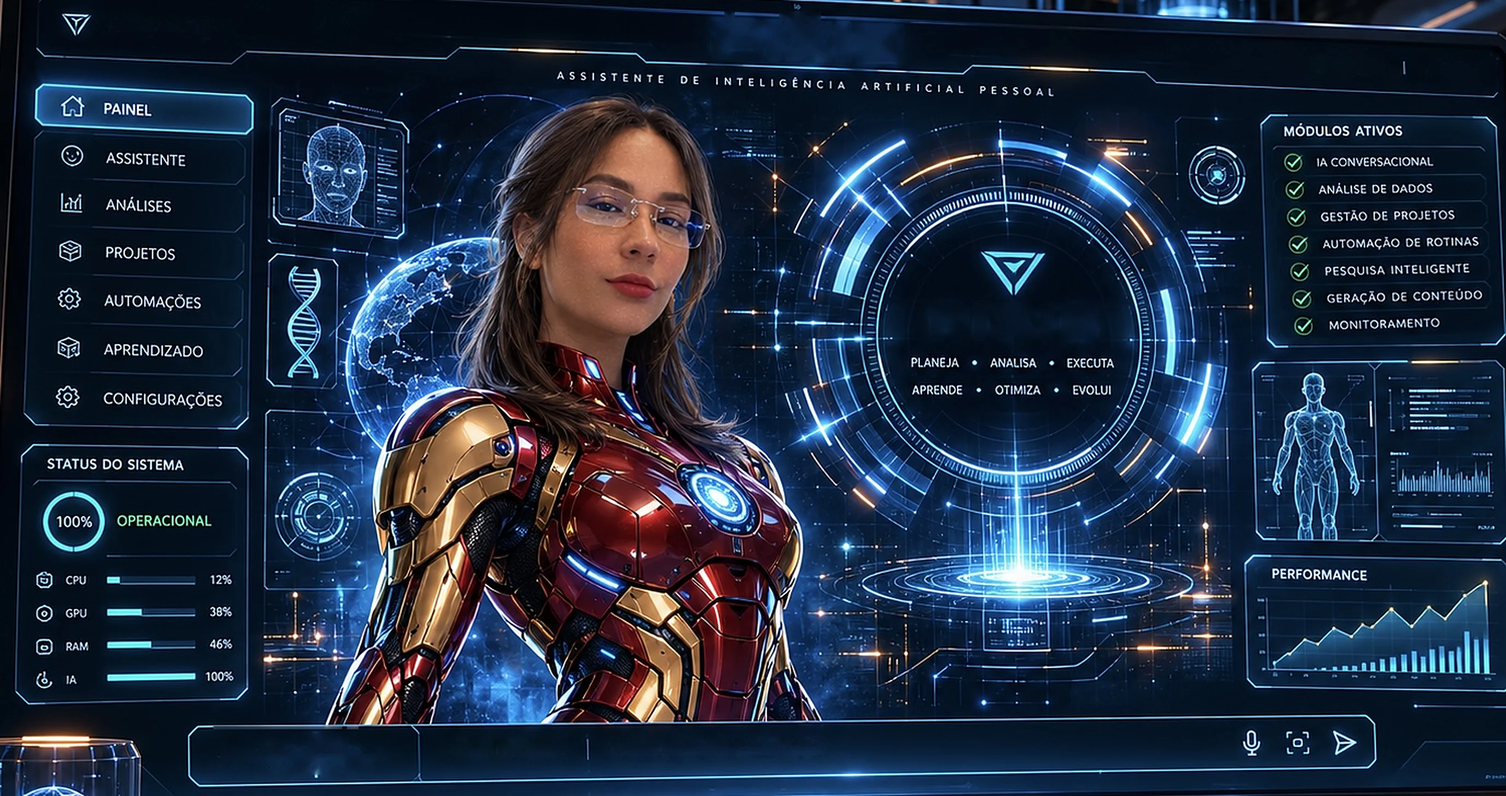
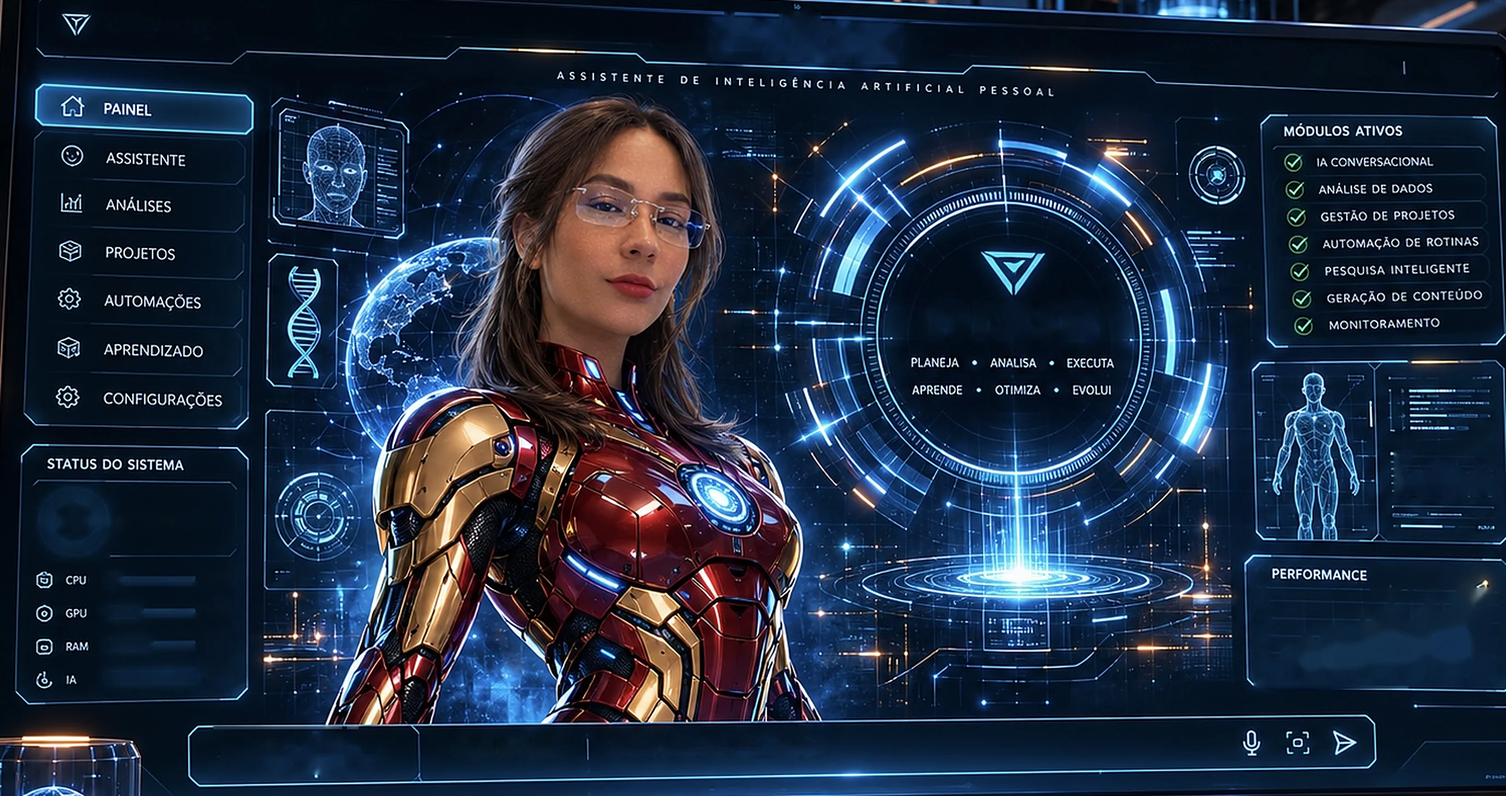
Evora Web: painel inteiro animado (scanners, globo, radares, reator, módulos, medidores e gráficos ao vivo, profundidade)
Claude-Session: https://claude.ai/code/session_01RtkD6pVsX9jumxM7LSjZw8

diff --git a/web/app.js b/web/app.js
@@ -461,6 +461,7 @@ async function send(text) {
 
 function showSources(data) {
   if (!data || (!data.queries?.length && !data.sources?.length)) return;
+  window.__evoraSearchHit?.();
   const div = document.createElement("div");
   div.className = "msg search";
   const q = (data.queries || []).join(" · ");
@@ -479,13 +480,13 @@ const holo = (() => {
   const ctx = c.getContext("2d");
   let w = 0, h = 0, dpr = 1, t = 0, last = performance.now();
   const reduce = window.matchMedia("(prefers-reduced-motion: reduce)").matches;
-  const api = {
-    level: 0,
-    kick(amount = 1) { api.level = Math.min(1, api.level + 0.55 * amount); },
-  };
-
   const BINS = 96;
   const spec = new Float32Array(BINS);
+  const api = {
+    level: 0,
+    spec,
+    kick(amount = 1) { api.level = Math.min(1, api.level + 0.55 * amount); },
+  };
   const freq = new Uint8Array(256);
   const parts = [];
   const MAX_PARTS = 900;
@@ -1007,4 +1008,329 @@ drawPerf();
     requestAnimationFrame(frame);
   }
   requestAnimationFrame(frame);
+})();
+
+// ── Camada viva sobre a arte do painel ────────────────────────────────────
+// Tudo aqui é desenhado por cima da imagem, nas coordenadas dela (1377×728),
+// para os painéis se mexerem como uma interface de verdade:
+// scanners, globo, radares, reator do peito, módulos acendendo, medidores e
+// gráficos com dados reais da página, poeira de luz e reflexo de vidro.
+const fx = (() => {
+  const c = $("fx");
+  if (!c) return null;
+  const ctx = c.getContext("2d");
+  const W = 1377, H = 728;
+  let s = 1, dpr = 1, t = 0, lastT = performance.now();
+  const reduce = window.matchMedia("(prefers-reduced-motion: reduce)").matches;
+
+  function resize() {
+    dpr = Math.min(window.devicePixelRatio || 1, 2);
+    const r = c.getBoundingClientRect();
+    s = r.width / W;
+    c.width = Math.round(r.width * dpr); c.height = Math.round(r.height * dpr);
+  }
+  window.addEventListener("resize", resize);
+  resize();
+
+  // ── métricas reais da página ──
+  const metrics = { cpu: 8, gpu: 10, ram: null, ia: 0 };
+  let lagExpected = performance.now() + 250;
+  setInterval(() => {
+    const now = performance.now();
+    const lag = Math.max(0, now - lagExpected);
+    lagExpected = now + 250;
+    const cpuNow = Math.min(100, 4 + lag * 1.2 + frameLoad * 40);
+    metrics.cpu += (cpuNow - metrics.cpu) * 0.35;
+    if (performance.memory && performance.memory.jsHeapSizeLimit) {
+      metrics.ram = (performance.memory.usedJSHeapSize / performance.memory.jsHeapSizeLimit) * 100;
+    }
+  }, 250);
+  let frameLoad = 0, frameAvg = 16.7;
+
+  let searchFlash = 0;
+  window.__evoraSearchHit = () => { searchFlash = 1; };
+
+  const dust = Array.from({ length: 70 }, () => ({
+    x: Math.random() * W, y: Math.random() * H,
+    vx: (Math.random() - 0.5) * 6, vy: -2 - Math.random() * 6,
+    r: 0.4 + Math.random() * 1.1, p: Math.random() * Math.PI * 2,
+  }));
+
+  const P = (x) => x * s; // pixel da arte → pixel da tela
+
+  // brilhos pré-desenhados por cor (gradiente a cada quadro é caro)
+  const sprites = {};
+  function sprite(color) {
+    if (sprites[color]) return sprites[color];
+    const sc = document.createElement("canvas");
+    sc.width = sc.height = 64;
+    const g = sc.getContext("2d");
+    const grd = g.createRadialGradient(32, 32, 0, 32, 32, 32);
+    grd.addColorStop(0, `rgba(${color},1)`);
+    grd.addColorStop(0.35, `rgba(${color},.45)`);
+    grd.addColorStop(1, `rgba(${color},0)`);
+    g.fillStyle = grd; g.fillRect(0, 0, 64, 64);
+    return (sprites[color] = sc);
+  }
+  function glowDot(x, y, r, color, a) {
+    if (a <= 0.01) return;
+    ctx.globalAlpha = Math.min(1, a);
+    ctx.drawImage(sprite(color), P(x - r), P(y - r), P(r * 2), P(r * 2));
+    ctx.globalAlpha = 1;
+  }
+  function clipRect(x, y, w, h, fn) {
+    ctx.save(); ctx.beginPath(); ctx.rect(P(x), P(y), P(w), P(h)); ctx.clip(); fn(); ctx.restore();
+  }
+  function scanLine(x, y, w, h, period, color = "120,230,255") {
+    const k = (t % period) / period;
+    const yy = y + k * h;
+    clipRect(x, y, w, h, () => {
+      const g = ctx.createLinearGradient(0, P(yy - 14), 0, P(yy + 2));
+      g.addColorStop(0, `rgba(${color},0)`);
+      g.addColorStop(0.85, `rgba(${color},.22)`);
+      g.addColorStop(1, `rgba(${color},.75)`);
+      ctx.fillStyle = g;
+      ctx.fillRect(P(x), P(yy - 14), P(w), P(16));
+    });
+  }
+  function radar(cx, cy, r, speed, color = "110,230,255") {
+    const a = t * speed;
+    ctx.save();
+    ctx.translate(P(cx), P(cy));
+    for (let k = 0; k < 24; k++) {
+      ctx.strokeStyle = `rgba(${color},${0.13 * Math.pow(1 - k / 24, 1.5)})`;
+      ctx.lineWidth = P(r) * 0.9;
+      ctx.beginPath(); ctx.arc(0, 0, P(r) * 0.5, a - k * 0.045, a - k * 0.045 + 0.05); ctx.stroke();
+    }
+    ctx.restore();
+  }
+
+  function sysScore() {
+    const voiceOk = prefs.style === "jarvis" ? sys.gemini !== false : Boolean(synth);
+    const vals = [sys.gemini, voiceOk, sys.mic, sys.rede].filter((v) => v !== null && v !== undefined);
+    if (!vals.length) return 0;
+    return Math.round((vals.filter(Boolean).length / vals.length) * 100);
+  }
+
+  const shown = { cpu: 0, gpu: 0, ram: 0, ia: 0, score: 0 };
+
+  function draw(now) {
+    const dt = Math.min(0.05, (now - lastT) / 1000 || 0.016);
+    lastT = now;
+    frameAvg += ((dt * 1000) - frameAvg) * 0.05;
+    frameLoad = Math.max(0, Math.min(1, (frameAvg - 16.7) / 16.7));
+    t += reduce ? 0 : dt;
+    const lvl = holo.level || 0;
+    const speaking = state === "speaking", thinking = state === "thinking", listening = state === "listening";
+
+    ctx.setTransform(dpr, 0, 0, dpr, 0, 0);
+    ctx.clearRect(0, 0, c.width, c.height);
+    ctx.globalCompositeOperation = "lighter";
+
+    // ── painel do rosto: varredura + pontos de leitura
+    scanLine(270, 108, 74, 104, 3.2);
+    for (let i = 0; i < 6; i++) {
+      const on = Math.sin(t * 3 + i * 1.7) > 0.6;
+      if (on) glowDot(282 + ((i * 37) % 52), 125 + ((i * 53) % 78), 3.5, "150,240,255", 0.8);
+    }
+    // ── DNA: faixa de luz subindo
+    clipRect(250, 236, 58, 114, () => {
+      const k = 1 - (t % 2.6) / 2.6;
+      const yy = 236 + k * 130 - 10;
+      const g = ctx.createLinearGradient(0, P(yy - 16), 0, P(yy + 16));
+      g.addColorStop(0, "rgba(120,230,255,0)"); g.addColorStop(0.5, "rgba(140,240,255,.35)"); g.addColorStop(1, "rgba(120,230,255,0)");
+      ctx.fillStyle = g; ctx.fillRect(P(250), P(yy - 16), P(58), P(32));
+    });
+    // ── globo: meridianos girando (só na parte que não fica atrás do cabelo)
+    ctx.save();
+    ctx.beginPath(); ctx.arc(P(383), P(298), P(71), 0, Math.PI * 2); ctx.clip();
+    ctx.beginPath(); ctx.rect(P(300), P(220), P(128), P(160)); ctx.clip();
+    ctx.translate(P(383), P(298));
+    ctx.lineWidth = Math.max(0.6, P(0.8));
+    for (let m = 0; m < 6; m++) {
+      const ph = (t * 0.35 + m / 6) % 1;
+      const rx = Math.abs(Math.cos(ph * Math.PI)) * P(70);
+      const front = Math.sin(ph * Math.PI) > 0;
+      ctx.strokeStyle = `rgba(120,220,255,${front ? 0.28 : 0.08})`;
+      ctx.beginPath(); ctx.ellipse(0, 0, Math.max(0.5, rx), P(70), 0, 0, Math.PI * 2); ctx.stroke();
+    }
+    const sweepX = ((t * 0.25) % 1) * P(150) - P(75);
+    const sg = ctx.createLinearGradient(sweepX - P(18), 0, sweepX + P(18), 0);
+    sg.addColorStop(0, "rgba(120,220,255,0)"); sg.addColorStop(0.5, "rgba(150,235,255,.18)"); sg.addColorStop(1, "rgba(120,220,255,0)");
+    ctx.fillStyle = sg; ctx.fillRect(sweepX - P(18), -P(72), P(36), P(144));
+    ctx.restore();
+
+    // ── radares pequenos
+    radar(287, 467, 34, 1.6);
+    radar(1110, 156, 21, -2.2);
+    // ── scanner do corpo (direita)
+    scanLine(1152, 338, 98, 160, 4.2);
+
+    // ── reator do peito: pulsa com a voz
+    const flick = 0.9 + 0.1 * Math.sin(t * 23) * Math.sin(t * 7);
+    const core = (0.22 + lvl * 0.9 + (listening ? 0.12 : 0)) * flick;
+    glowDot(657, 452, 30 + lvl * 26, "120,220,255", Math.min(0.85, core));
+    glowDot(657, 452, 12 + lvl * 8, "235,252,255", Math.min(0.9, core * 0.9));
+
+    // ── módulos ativos acendendo conforme o que a Evora está fazendo
+    searchFlash = Math.max(0, searchFlash - dt * 0.35);
+    const active = [
+      speaking || thinking, thinking, false, typeof loopActive === "function" && loopActive(),
+      searchFlash > 0.02, speaking, listening,
+    ];
+    const rows = [148, 172, 196, 222, 247, 272, 296];
+    rows.forEach((y, i) => {
+      const cx = 1183 + i * 1.6;
+      const on = active[i];
+      const pulse = 0.5 + 0.5 * Math.sin(t * 5 + i);
+      if (on) {
+        const g = ctx.createLinearGradient(P(1170), 0, P(1362), 0);
+        g.addColorStop(0, `rgba(80,255,160,${0.07 + pulse * 0.06})`);
+        g.addColorStop(1, "rgba(80,255,160,0)");
+        ctx.fillStyle = g; ctx.fillRect(P(1170), P(y - 10), P(192), P(20));
+        glowDot(cx, y, 13, "90,255,160", 0.3 + pulse * 0.25);
+      } else {
+        glowDot(cx, y, 9, "90,255,160", 0.08 + 0.05 * Math.sin(t * 1.3 + i * 0.9));
+      }
+    });
+
+    // ── poeira de luz pela tela toda
+    for (const d of dust) {
+      d.x += d.vx * dt; d.y += d.vy * dt; d.p += dt * 2;
+      if (d.y < -5) { d.y = H + 5; d.x = Math.random() * W; }
+      if (d.x < -5) d.x = W + 5; if (d.x > W + 5) d.x = -5;
+      const a = 0.18 + 0.22 * Math.sin(d.p);
+      if (a > 0.05) glowDot(d.x, d.y, d.r * 4, "150,225,255", a);
+    }
+
+    // ── reflexo de vidro atravessando a tela a cada ~9 s
+    const cyc = (t % 9) / 9;
+    if (cyc < 0.35) {
+      const x = -300 + (cyc / 0.35) * (W + 600);
+      ctx.save();
+      ctx.translate(P(x), 0); ctx.rotate(0.35);
+      const g = ctx.createLinearGradient(-P(60), 0, P(60), 0);
+      g.addColorStop(0, "rgba(160,230,255,0)"); g.addColorStop(0.5, "rgba(170,235,255,.045)"); g.addColorStop(1, "rgba(160,230,255,0)");
+      ctx.fillStyle = g; ctx.fillRect(-P(60), -P(200), P(120), P(H + 600));
+      ctx.restore();
+    }
+
+    // ── medidores (Status do sistema) com dados reais
+    ctx.globalCompositeOperation = "source-over";
+    const gpuNow = Math.min(100, 6 + frameLoad * 70 + lvl * 18 + (speaking ? 6 : 0));
+    metrics.gpu += (gpuNow - metrics.gpu) * 0.05;
+    const iaTarget = sys.gemini === false ? 0 : thinking ? 85 + 15 * Math.abs(Math.sin(t * 4)) : speaking ? 70 + lvl * 30 : 100;
+    metrics.ia += (iaTarget - metrics.ia) * 0.08;
+    const target = { cpu: metrics.cpu, gpu: metrics.gpu, ram: metrics.ram ?? 0, ia: metrics.ia, score: sysScore() };
+    for (const k in shown) shown[k] += (target[k] - shown[k]) * 0.08;
+
+    const bars = [["cpu", 530], ["gpu", 560], ["ram", 590], ["ia", 619]];
+    for (const [k, y] of bars) {
+      const v = Math.max(0, Math.min(100, shown[k]));
+      const x0 = 98, w = 80;
+      ctx.fillStyle = "rgba(83,224,255,.12)";
+      ctx.fillRect(P(x0), P(y - 3), P(w), P(6));
+      const g = ctx.createLinearGradient(P(x0), 0, P(x0 + w), 0);
+      g.addColorStop(0, "#2fb6e6"); g.addColorStop(1, "#8ff0ff");
+      ctx.fillStyle = g;
+      ctx.fillRect(P(x0), P(y - 3), P(w * v / 100), P(6));
+      ctx.fillStyle = "rgba(83,224,255,.18)";
+      ctx.fillRect(P(x0), P(y - 5), P(w * v / 100), P(10));
+      ctx.font = `600 ${P(14)}px Rajdhani, sans-serif`;
+      ctx.textAlign = "right"; ctx.textBaseline = "middle";
+      ctx.fillStyle = "#dff3ff";
+      const label = k === "ram" && metrics.ram === null ? "—" : `${Math.round(v)}%`;
+      ctx.fillText(label, P(214), P(y + 1));
+    }
+    // anel do status geral
+    const sc = shown.score;
+    ctx.lineCap = "round";
+    ctx.strokeStyle = "rgba(83,224,255,.14)"; ctx.lineWidth = P(5);
+    ctx.beginPath(); ctx.arc(P(67), P(476), P(25), 0, Math.PI * 2); ctx.stroke();
+    const arcEnd = -Math.PI / 2 + (Math.PI * 2 * sc) / 100;
+    ctx.strokeStyle = "rgba(83,224,255,.25)"; ctx.lineWidth = P(9);
+    ctx.beginPath(); ctx.arc(P(67), P(476), P(25), -Math.PI / 2, arcEnd); ctx.stroke();
+    ctx.strokeStyle = "#53e0ff"; ctx.lineWidth = P(5);
+    ctx.beginPath(); ctx.arc(P(67), P(476), P(25), -Math.PI / 2, arcEnd); ctx.stroke();
+    ctx.textAlign = "center"; ctx.fillStyle = "#eaf8ff";
+    ctx.font = `600 ${P(14)}px Rajdhani, sans-serif`;
+    ctx.fillText(`${Math.round(sc)}%`, P(67), P(477));
+    const st = sc >= 99.5 ? ["OPERACIONAL", "#5dff9c"] : sc >= 50 ? ["PARCIAL", "#ffa53a"] : ["ATENÇÃO", "#ff6b6b"];
+    ctx.textAlign = "left"; ctx.fillStyle = st[1];
+    ctx.font = `600 ${P(16)}px Rajdhani, sans-serif`;
+    ctx.fillText(st[0], P(107), P(477));
+
+    // ── mini espectro (painel da direita)
+    const spec = holo.spec || [];
+    for (let i = 0; i < 22; i++) {
+      const v = (spec[(i * 4) % (spec.length || 1)] || 0) * 0.9 + 0.08 + 0.06 * Math.abs(Math.sin(t * 2 + i));
+      const bh = Math.min(1, v) * 32;
+      ctx.fillStyle = `rgba(120,225,255,${0.5 + Math.min(0.5, v)})`;
+      ctx.fillRect(P(1279 + i * 4), P(450 - bh), P(2.4), P(bh));
+    }
+
+    // ── gráfico de performance: tempo real das respostas
+    drawPerfChart();
+    requestAnimationFrame(draw);
+  }
+
+  function drawPerfChart() {
+    const x0 = 1152, y0 = 545, w = 212, h = 72;
+    ctx.strokeStyle = "rgba(83,224,255,.1)"; ctx.lineWidth = 1;
+    for (let i = 0; i <= 3; i++) { ctx.beginPath(); ctx.moveTo(P(x0), P(y0 + (h * i) / 3)); ctx.lineTo(P(x0 + w), P(y0 + (h * i) / 3)); ctx.stroke(); }
+    const data = perfData.slice(-14);
+    ctx.font = `600 ${P(11)}px Rajdhani, sans-serif`;
+    if (!data.length) {
+      ctx.fillStyle = "rgba(170,210,230,.7)"; ctx.textAlign = "center";
+      ctx.fillText("AGUARDANDO A PRIMEIRA RESPOSTA", P(x0 + w / 2), P(y0 + h / 2));
+      return;
+    }
+    const max = Math.max(...data, 3000);
+    const n = 14, bw = w / n;
+    const pts = data.map((v, i) => {
+      const x = x0 + (n - data.length + i) * bw + bw / 2;
+      return [x, y0 + h - (v / max) * (h - 6)];
+    });
+    data.forEach((v, i) => {
+      const [x, y] = pts[i];
+      const g = ctx.createLinearGradient(0, P(y), 0, P(y0 + h));
+      g.addColorStop(0, "rgba(83,224,255,.75)"); g.addColorStop(1, "rgba(83,224,255,.08)");
+      ctx.fillStyle = g; ctx.fillRect(P(x - bw * 0.28), P(y), P(bw * 0.56), P(y0 + h - y));
+    });
+    ctx.beginPath(); pts.forEach(([x, y], i) => (i ? ctx.lineTo(P(x), P(y)) : ctx.moveTo(P(x), P(y))));
+    ctx.strokeStyle = "rgba(83,224,255,.35)"; ctx.lineWidth = P(4); ctx.stroke();
+    ctx.strokeStyle = "#cfefff"; ctx.lineWidth = P(1.4); ctx.stroke();
+    pts.forEach(([x, y], i) => {
+      const lastOne = i === pts.length - 1;
+      ctx.fillStyle = lastOne ? "#ffd28a" : "#eaf8ff";
+      ctx.beginPath(); ctx.arc(P(x), P(y), P(lastOne ? 2.6 + Math.sin(t * 6) : 1.8), 0, Math.PI * 2); ctx.fill();
+    });
+    const lastV = data[data.length - 1], avg = data.reduce((a, b) => a + b, 0) / data.length;
+    ctx.fillStyle = "rgba(200,235,250,.85)"; ctx.textAlign = "right";
+    ctx.fillText(`ÚLTIMA ${(lastV / 1000).toFixed(1)} s · MÉDIA ${(avg / 1000).toFixed(1)} s`, P(x0 + w), P(y0 - 6));
+  }
+
+  requestAnimationFrame(draw);
+  return { resize };
+})();
+
+// Profundidade: a tela inclina levemente acompanhando o mouse.
+// Só anima enquanto o mouse se move (parado, não gasta nada).
+(() => {
+  const el = $("screen");
+  if (!el || window.matchMedia("(prefers-reduced-motion: reduce)").matches) return;
+  let tx = 0, ty = 0, x = 0, y = 0, running = false;
+  function step() {
+    x += (tx - x) * 0.08; y += (ty - y) * 0.08;
+    if (document.body.classList.contains("mobile")) { el.style.transform = ""; running = false; return; }
+    el.style.transform = `perspective(1800px) rotateY(${(x * 1.2).toFixed(3)}deg) rotateX(${(-y * 0.8).toFixed(3)}deg)`;
+    if (Math.abs(tx - x) + Math.abs(ty - y) > 0.002) requestAnimationFrame(step);
+    else running = false;
+  }
+  window.addEventListener("pointermove", (e) => {
+    if (e.pointerType !== "mouse") return;
+    tx = (e.clientX / window.innerWidth - 0.5) * 2;
+    ty = (e.clientY / window.innerHeight - 0.5) * 2;
+    if (!running) { running = true; requestAnimationFrame(step); }
+  });
 })();

diff --git a/web/style.css b/web/style.css
@@ -231,3 +231,18 @@ body.mobile .settings { top: auto; bottom: 80px; transform: translateX(-50%); }
 .msg.search .links { display: flex; flex-wrap: wrap; gap: .3em .8em; }
 .msg.search a { color: #bfefff; text-decoration: none; border-bottom: 1px solid rgba(83,224,255,.4); }
 .msg.search a:hover { color: #fff; border-color: var(--cyan); }
+
+/* ── Profundidade e textura de tela ───────────────────────────────────── */
+.screen { transform-origin: 50% 50%; }
+.fx { pointer-events: none; }
+.screen::after {
+  content: ""; position: absolute; inset: 0; pointer-events: none; z-index: 8;
+  background:
+    repeating-linear-gradient(0deg, rgba(160,220,255,.03) 0 1px, transparent 1px 3px);
+  animation: flicker 6s infinite steps(1);
+}
+.screen::before {
+  content: ""; position: absolute; inset: 0; pointer-events: none; z-index: 8;
+  background: radial-gradient(ellipse at 50% 45%, transparent 60%, rgba(0,3,10,.5) 100%);
+}
+@keyframes flicker { 0%, 100% { opacity: 1; } 47% { opacity: .85; } 48% { opacity: 1; } 82% { opacity: .92; } 83% { opacity: 1; } }

diff --git a/web/index.html b/web/index.html
@@ -21,6 +21,7 @@
   -->
   <div class="screen" id="screen">
     <img class="backdrop" src="/painel.webp" alt="" aria-hidden="true" />
+    <canvas class="ov fx" id="fx" aria-hidden="true" style="--x:0;--y:0;--w:1377;--h:728"></canvas>
 
     <!-- textos com o nome -->
     <span class="ov version" style="--x:100;--y:14;--w:120;--h:24">EVORA <small>v1.0</small></span>
